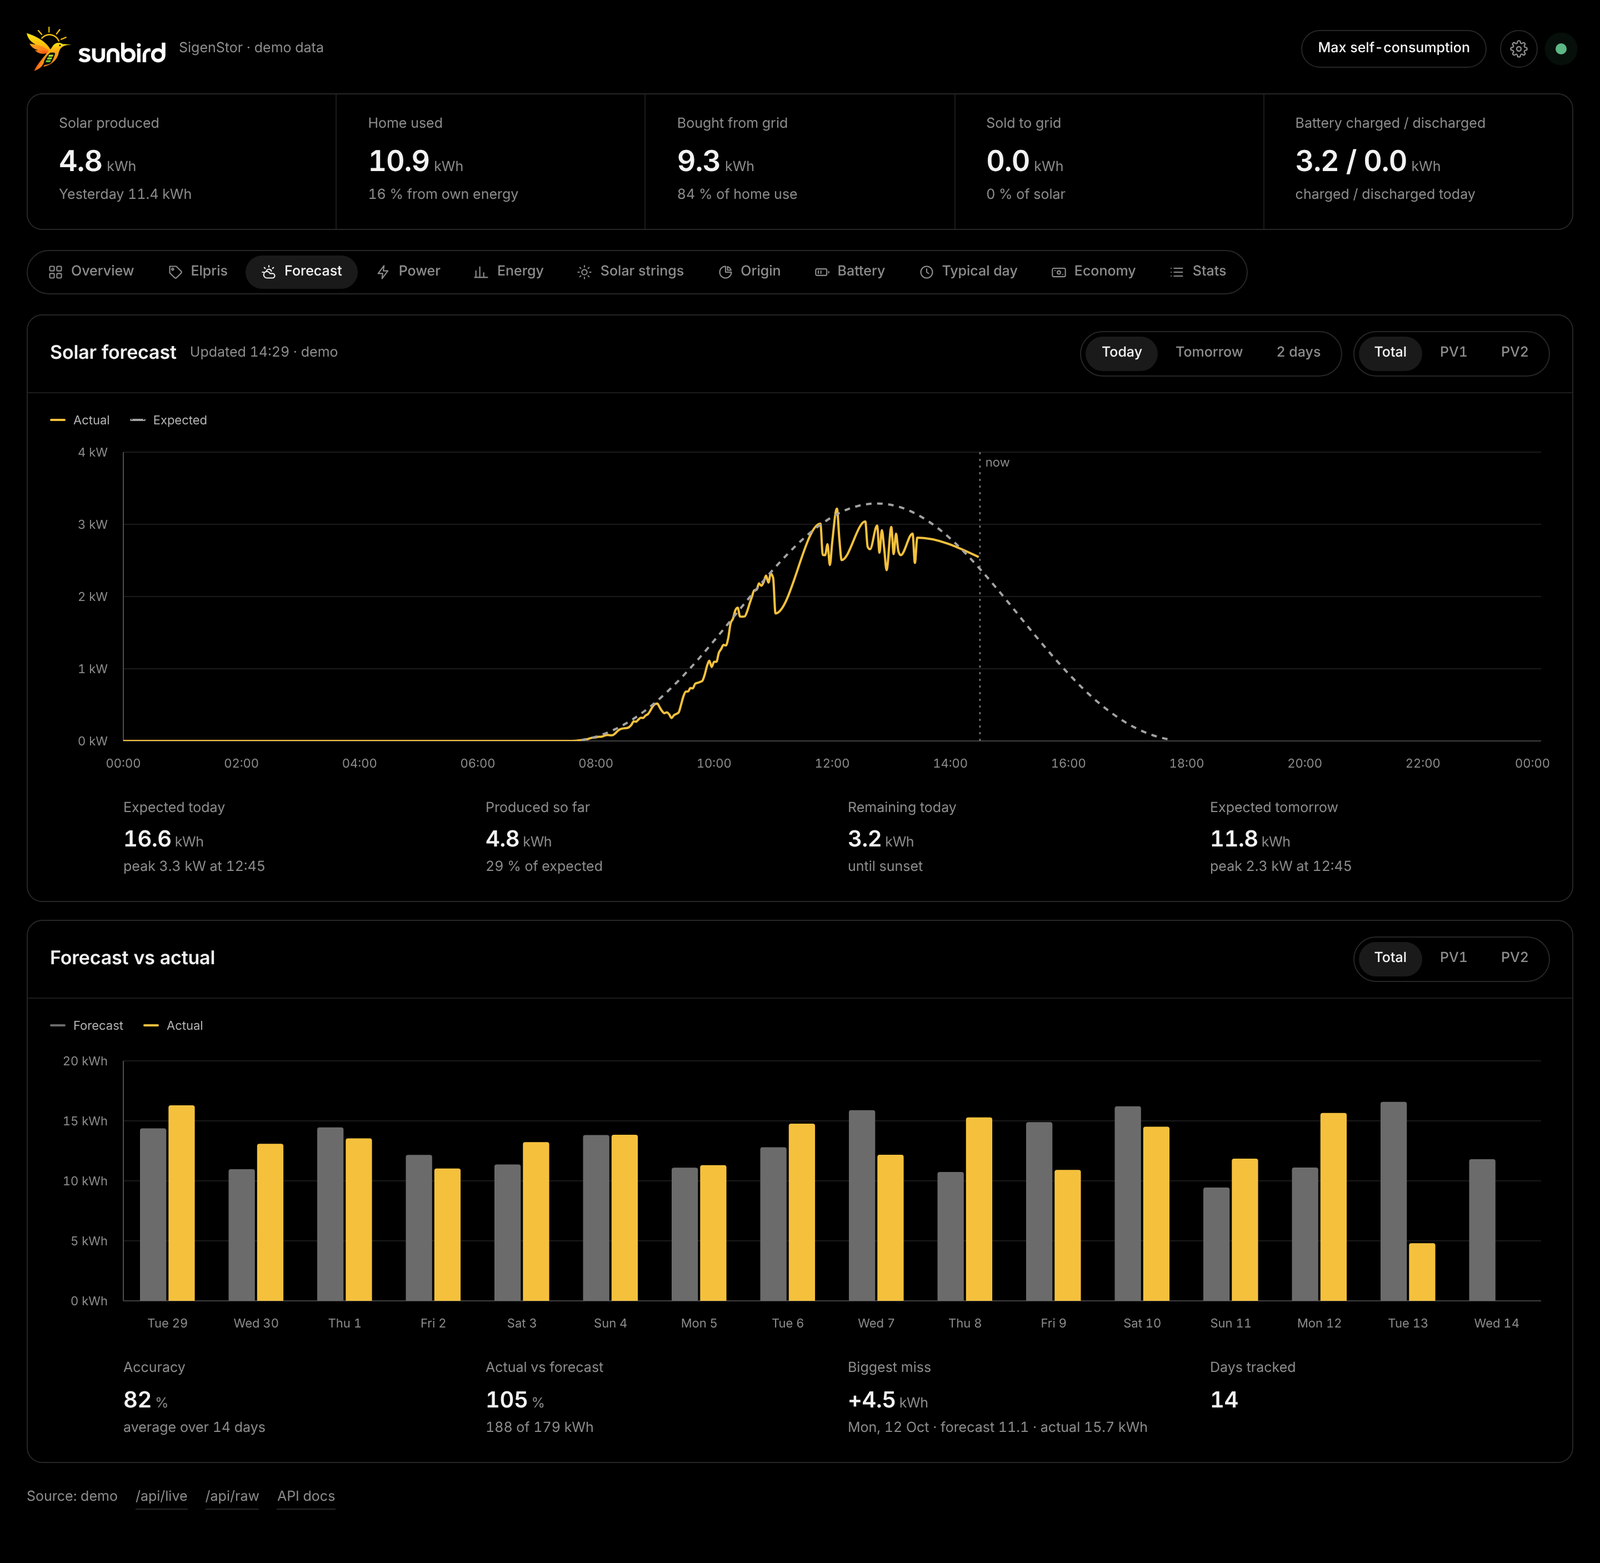
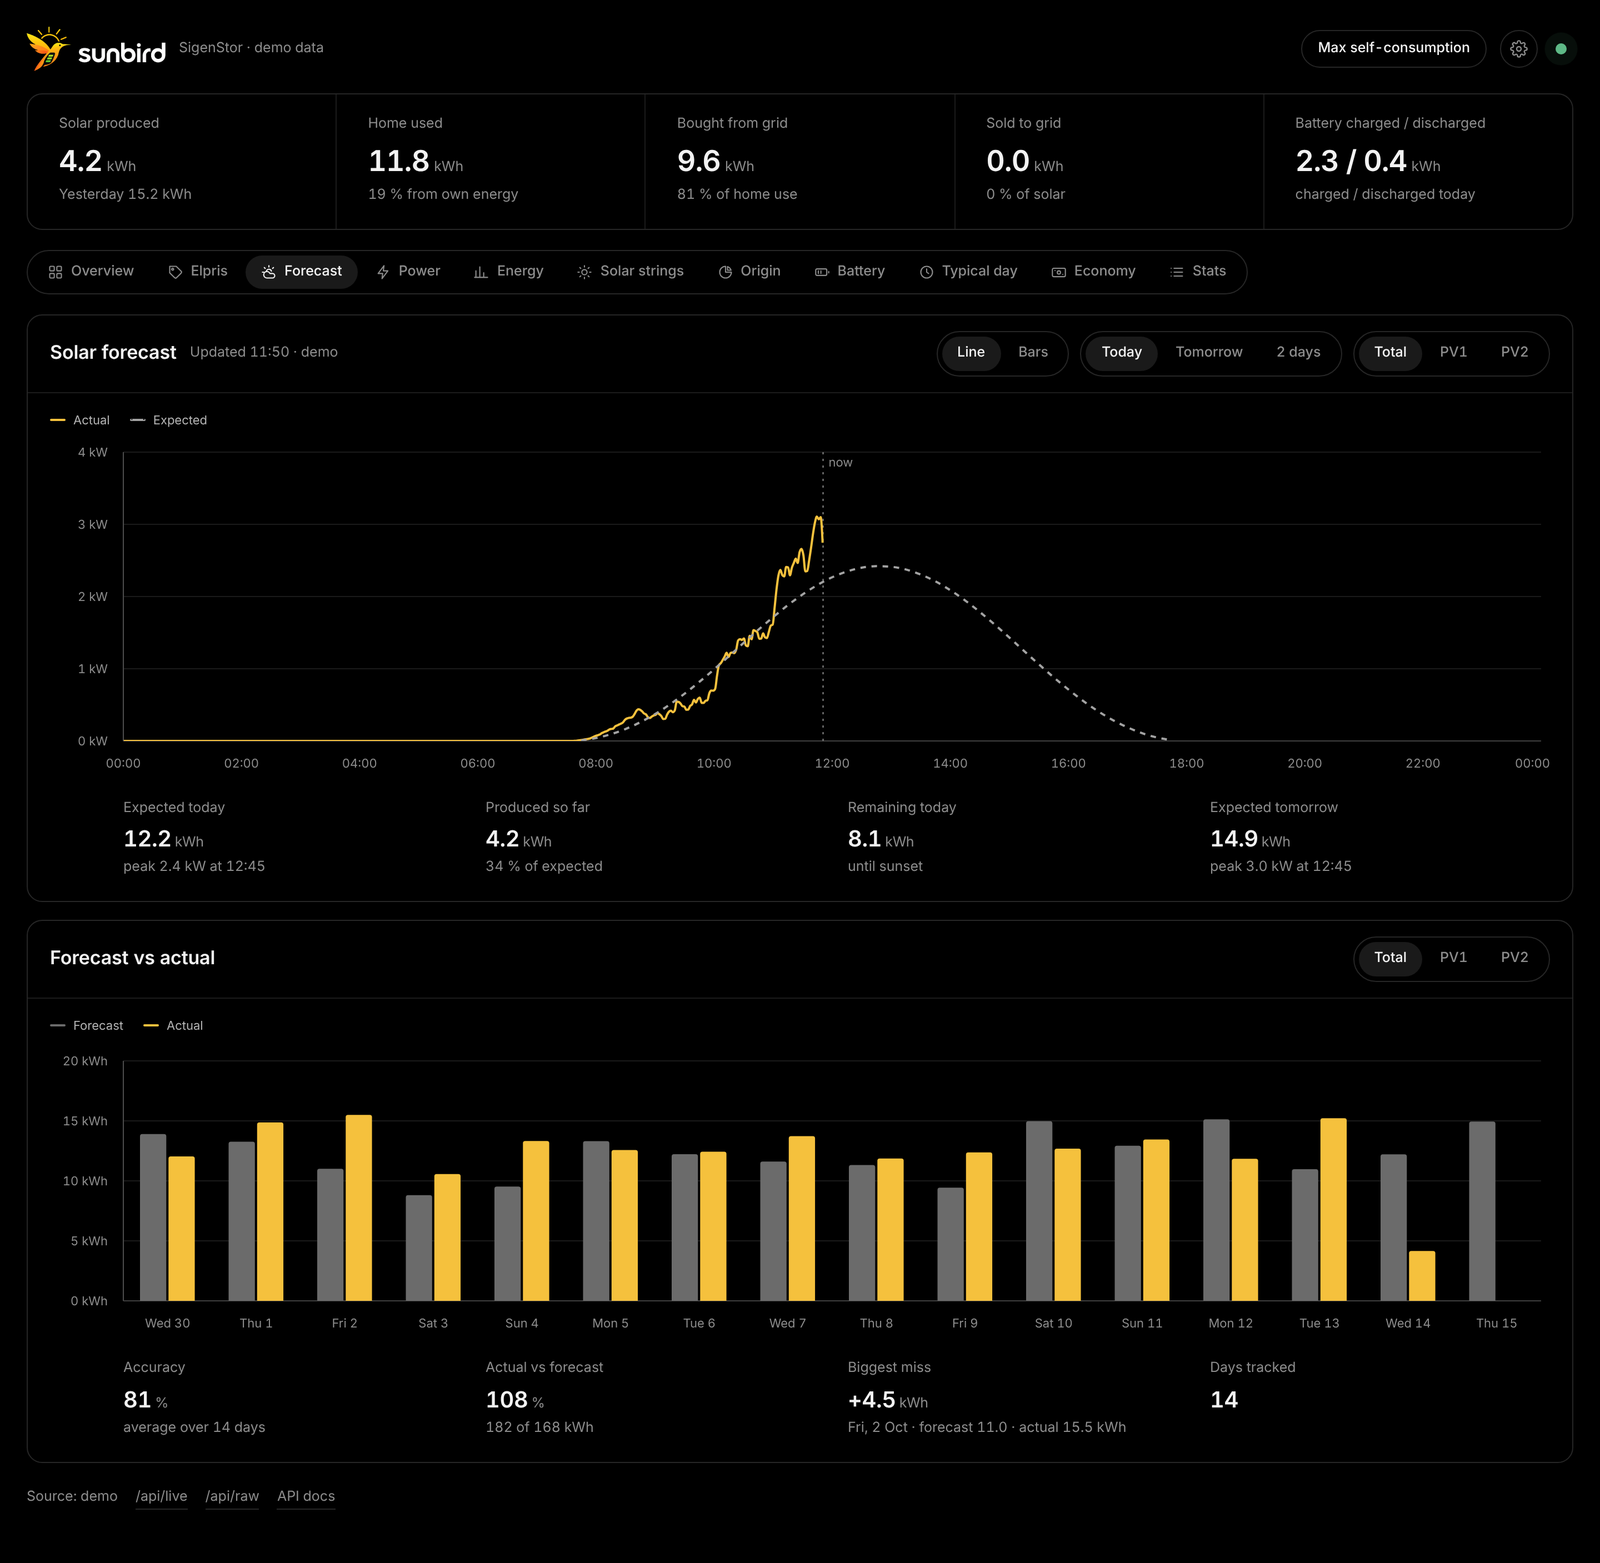
Update screenshots and README

diff --git a/README.md b/README.md
@@ -7,9 +7,10 @@ Modbus TCP on your home network. It needs no cloud and no account, and it refres
 
 ![Sunbird overview](docs/screenshots/overview.png)
 
-- **Right now:** live power flow between solar, grid, home and battery. The numbers roll when they change.
+- **Right now:** live power flow between solar, grid, home and battery.
   Rings show solar output against your panels' peak, grid and home use against your main fuse, and the battery level.
-  A thin peak ring and a peak line mark today's highest value for each, and the SigenStor glows when solar is above a level you choose.
+  A thin peak ring and a peak line mark today's highest value for each, and solar produced so far today is shown next to the sun.
+  Optional lightning bolts show strong flows from solar, grid or battery.
 - **Today:** solar produced, home used, bought and sold, battery in and out, and self-sufficiency, plus a donut of today's energy.
 - **Elpris:** Nord Pool spot prices for SE1–SE4 from [elprisetjustnu.se](https://www.elprisetjustnu.se), free.
   - Shown as 15-minute or hourly bars, coloured green, orange or red by price.
@@ -17,7 +18,7 @@ Modbus TCP on your home network. It needs no cloud and no account, and it refres
   - The battery and grid activity can be shown on top.
   - A second chart shows buying price, selling price and battery level together, so you can see when the battery charged and discharged.
 - **Forecast:** expected solar output per string for today and tomorrow, from [Forecast.Solar](https://forecast.solar) (free, no account).
-  - Actual production is drawn on top.
+  - Actual production is drawn on top, as lines or as hourly bars (expected in grey, actual in yellow).
   - A forecast-vs-actual history shows how accurate the forecast has been.
 - **Power:** all series, or one at a time, from 1 hour to 30 days.
 - **Energy:** solar, home, bought, sold, charged and discharged per hour, day, week or month, with an all-time-high line.
@@ -29,7 +30,7 @@ Modbus TCP on your home network. It needs no cloud and no account, and it refres
   - Net, combined (sold up, bought down) or side-by-side bars per day, week or month.
   - How much solar and battery saved compared with buying everything from the grid.
 - **Stats:** battery life (full cycles used out of the rated cycles), health, cell data and system info.
-- English, Swedish, German, French and Spanish, with smooth or straight chart lines and optional brighter card borders. It works on phones too.
+- English, Swedish, German, French and Spanish, with smooth or straight chart lines, optional area fills, rolling numbers and brighter card borders. It works on phones too.
 - Each thing has one colour in every chart: solar yellow, home blue, battery green, grid orange.
 
 Sunbird only **reads** from the SigenStor. It never writes to it.
@@ -117,6 +118,7 @@ Simple keys can also be set as environment variables, for example `SUNBIRD_HOST=
 `SUNBIRD_CONFIG` points to a different config file.
 
 Forecast.Solar's free tier allows about 12 calls per hour. Sunbird makes one call per string every 60 minutes, which stays well within that.
+If it gets rate limited it waits until Forecast.Solar says it may call again. Every Sunbird on the same internet connection shares that limit, so turn the forecast off on extra copies.
 
 ## How the numbers work
 
